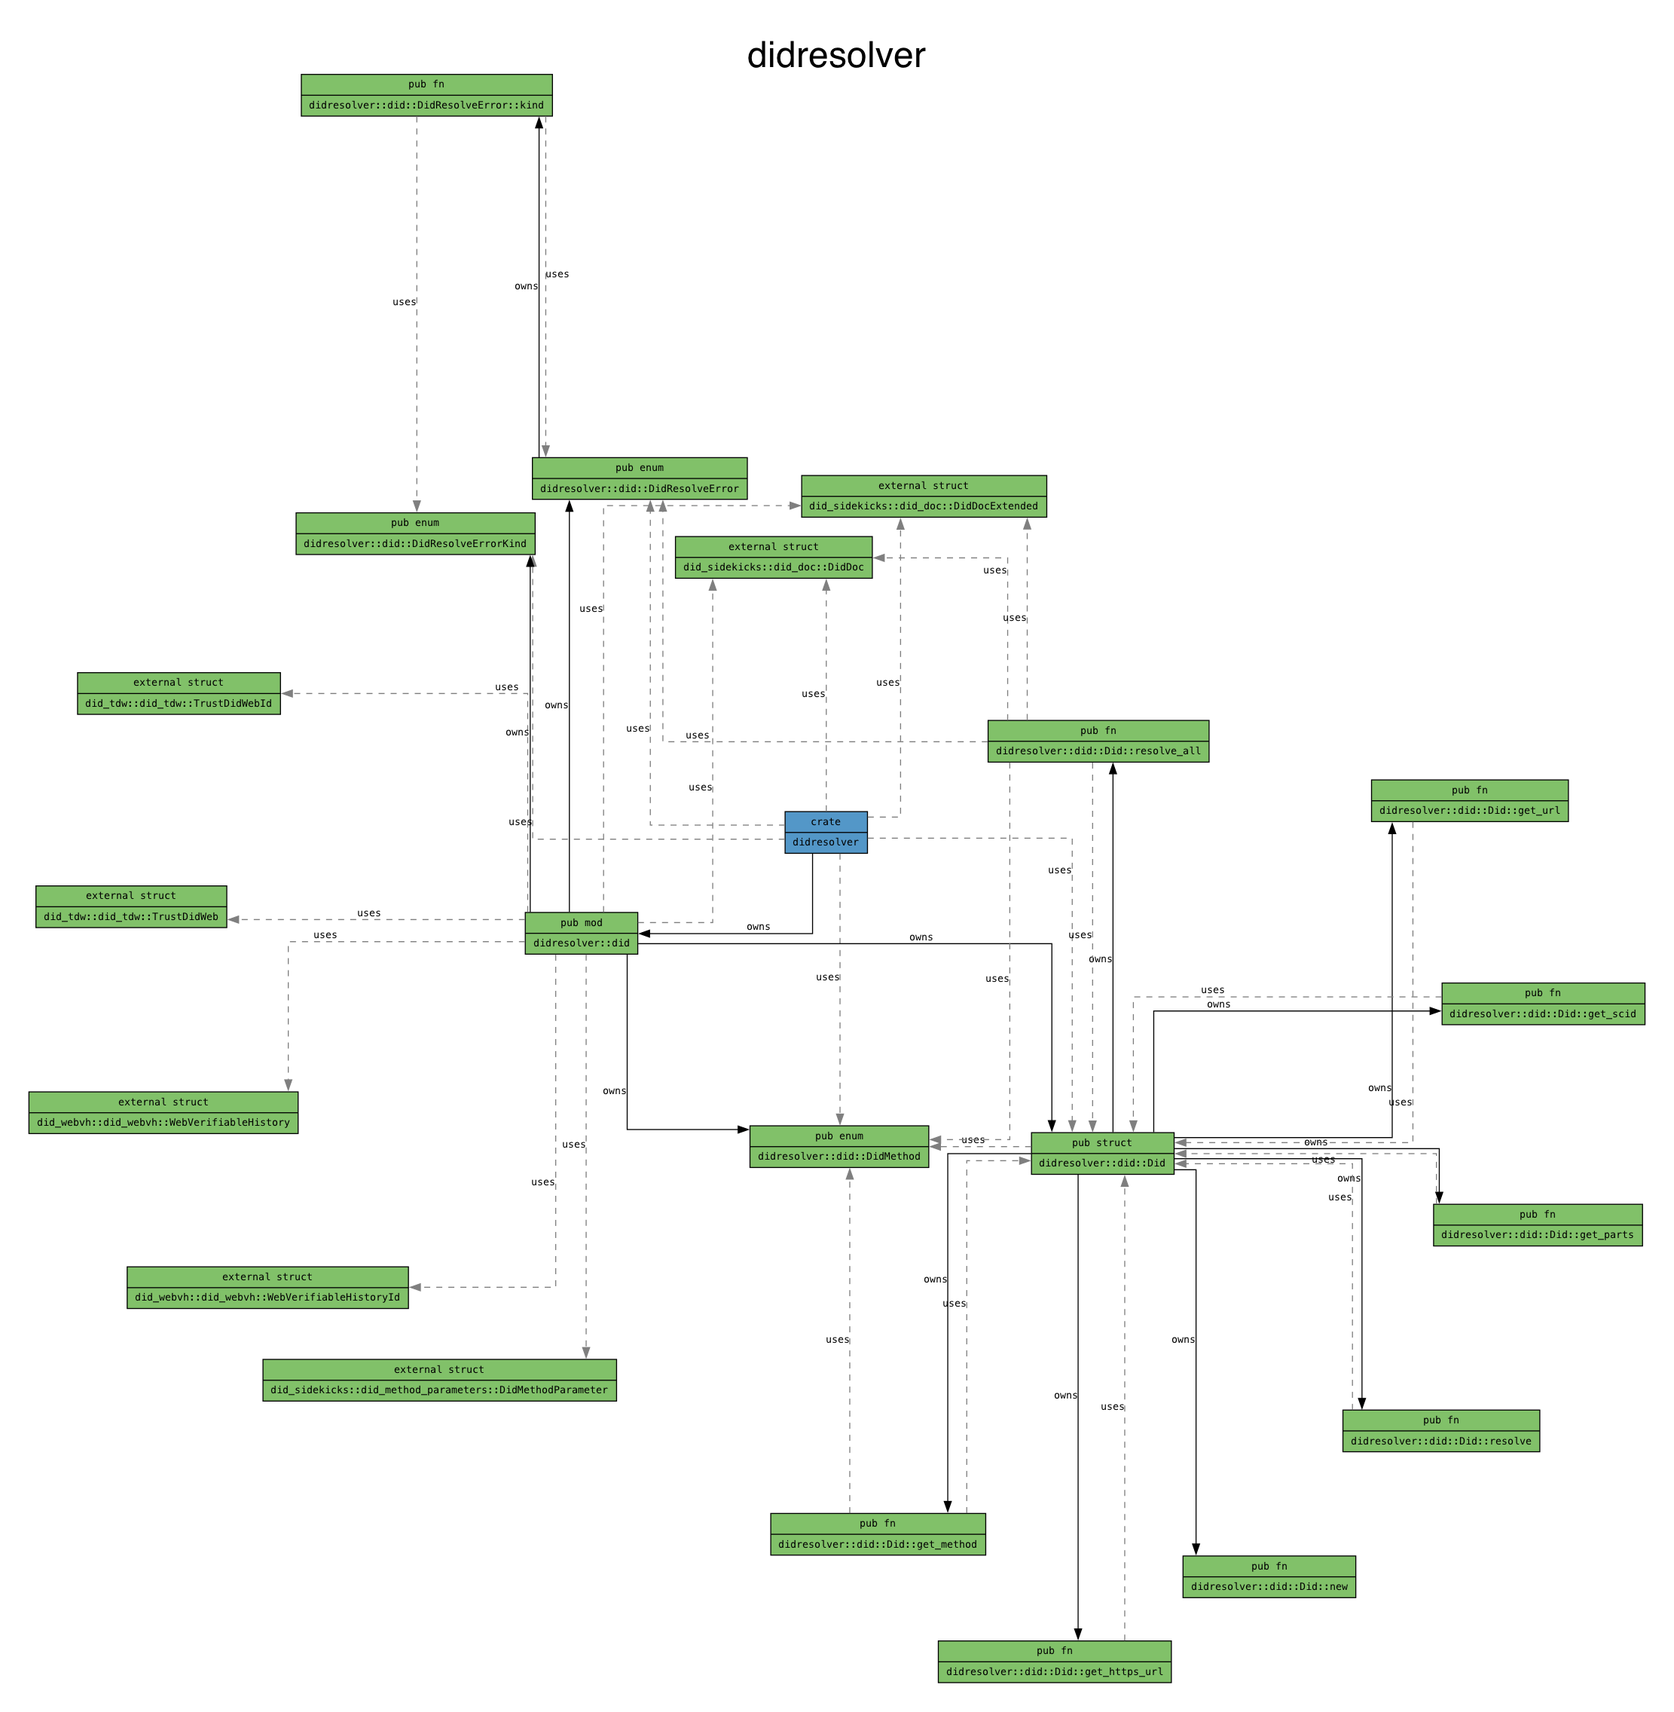
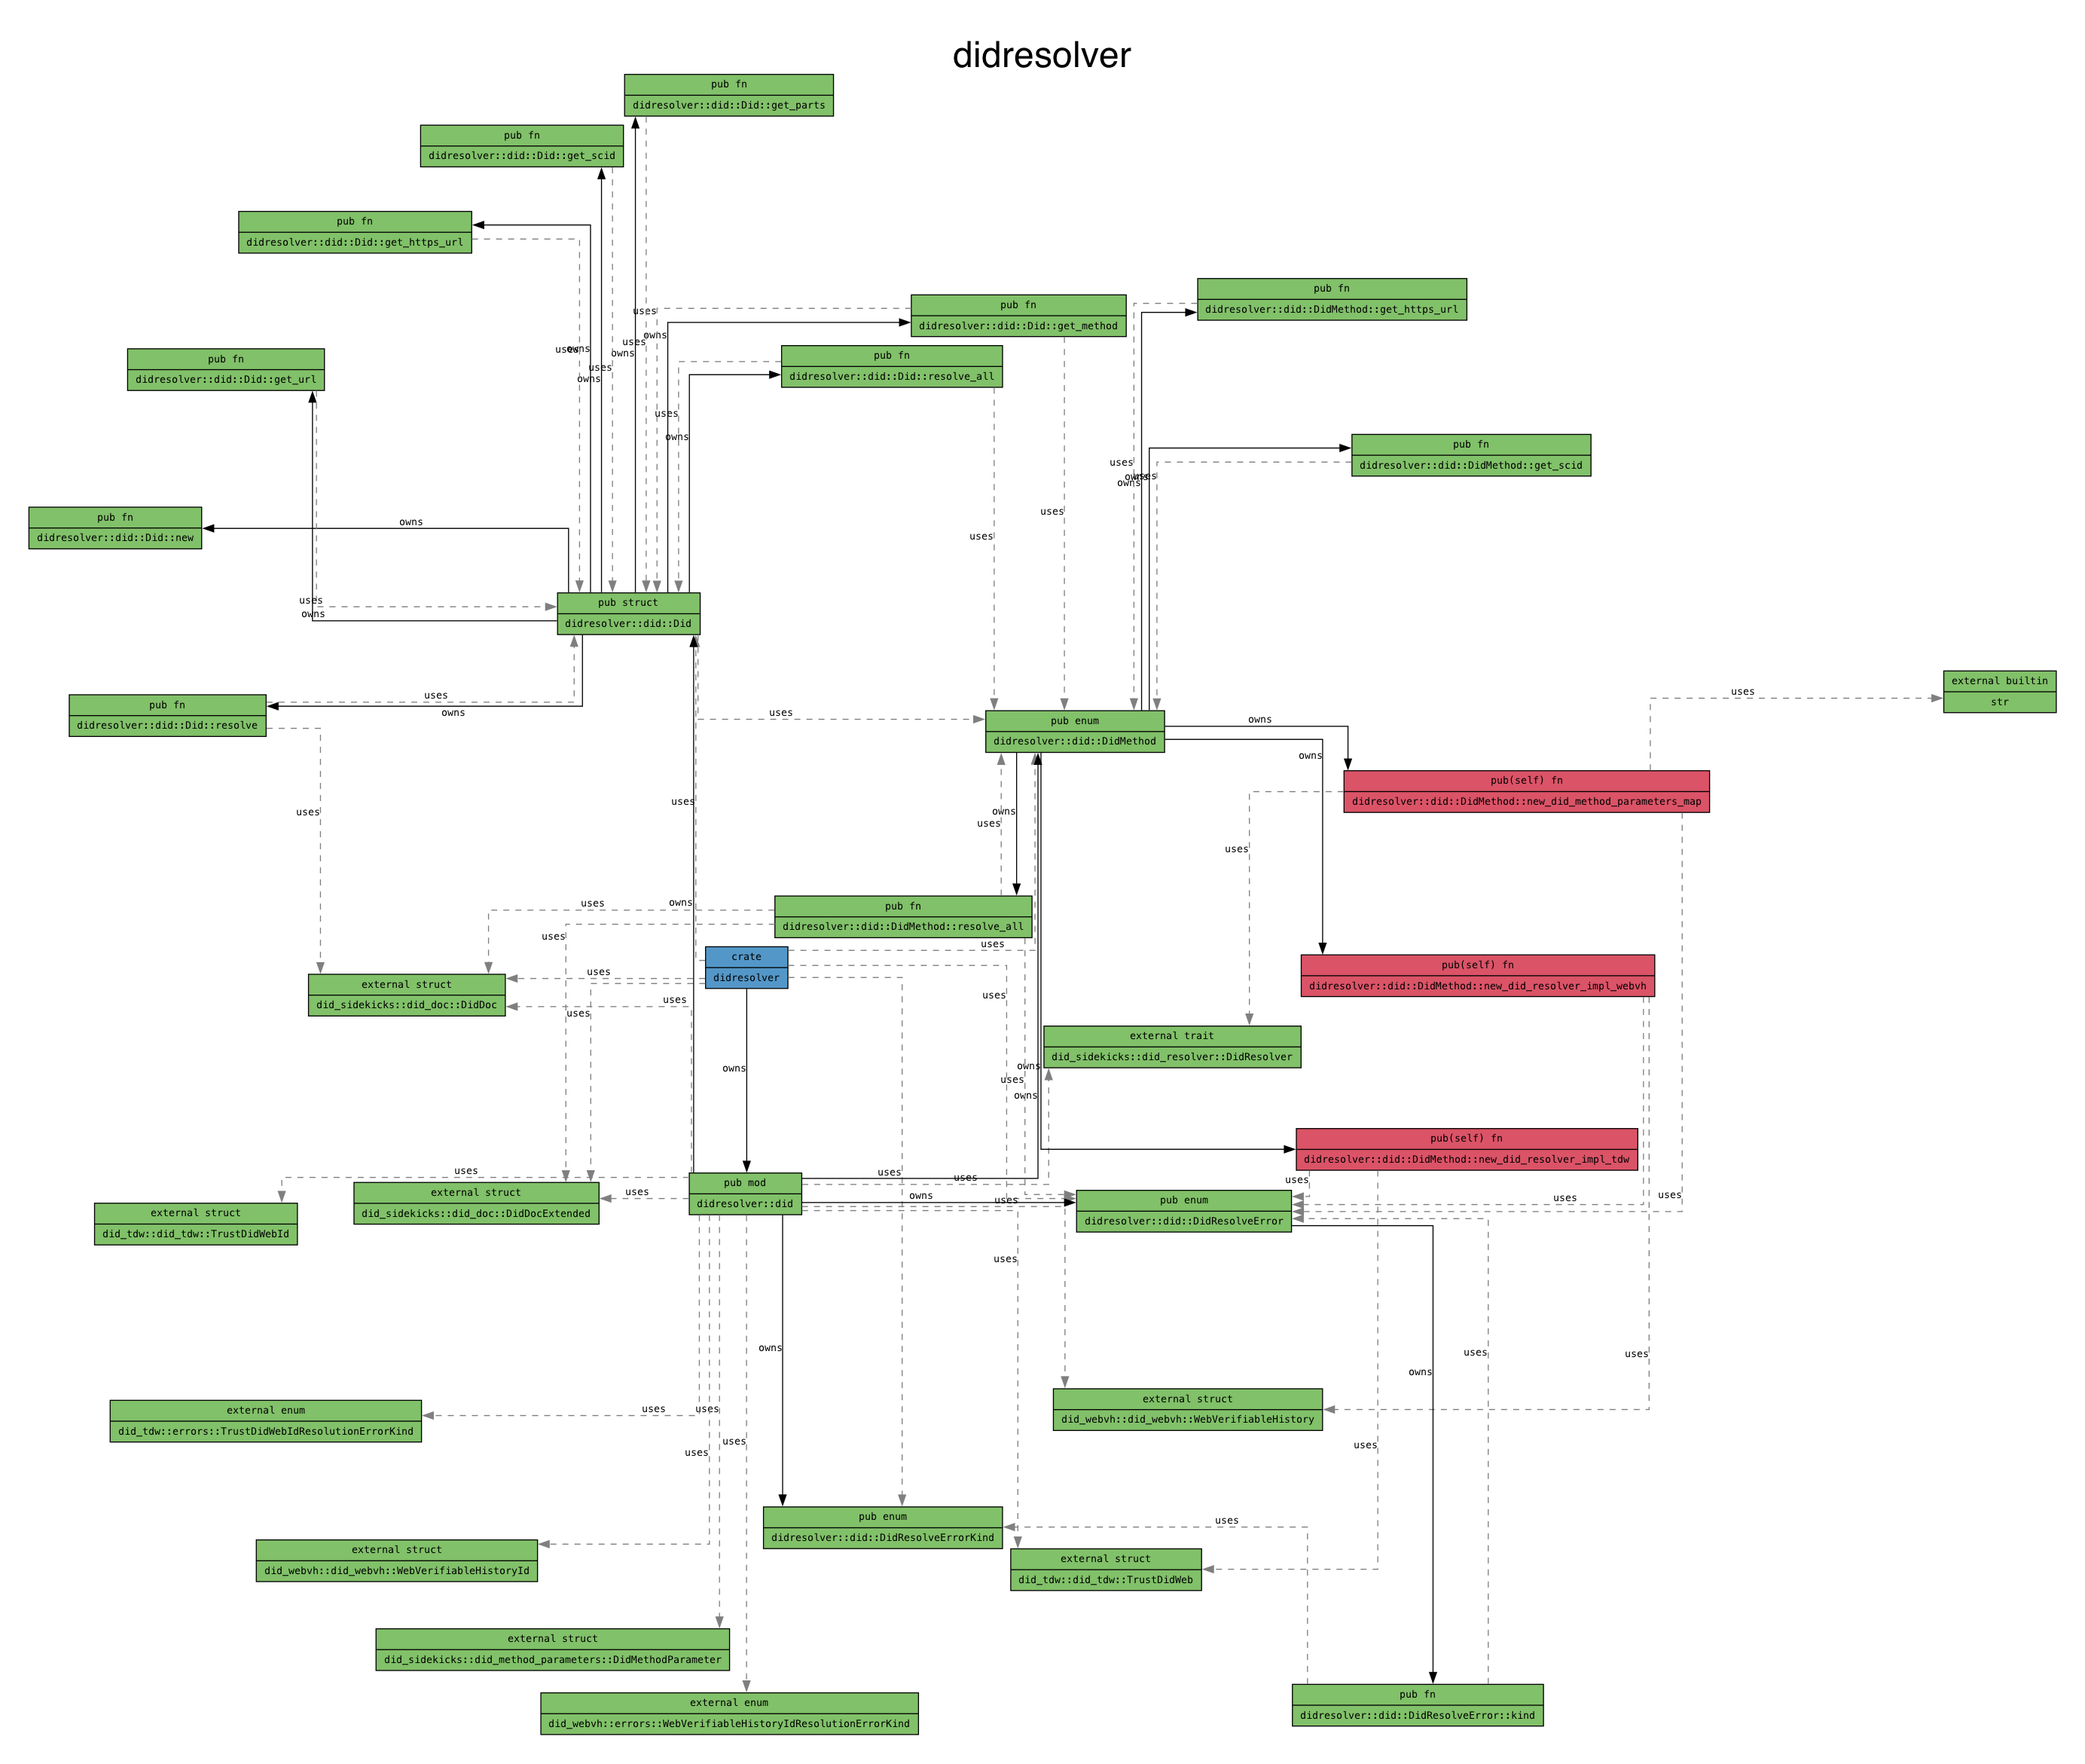
README updated

diff --git a/src/did.rs b/src/did.rs
@@ -59,9 +59,9 @@ pub enum DidResolveErrorKind {
 #[derive(Debug, Clone, PartialEq, Default, EnumDisplay, EnumAsRefStr)]
 pub enum DidMethod {
     #[strum(to_string = "tdw", serialize = "tdw")]
-    TDW { scid: String, url: String },
+    TDW { scid: String, https_url: String },
     #[strum(to_string = "webvh", serialize = "webvh")]
-    WEBVH { scid: String, url: String },
+    WEBVH { scid: String, https_url: String },
     #[default]
     UNKNOWN,
 }
@@ -69,36 +69,48 @@ pub enum DidMethod {
 impl DidMethod {
     pub fn get_scid(&self) -> String {
         match self {
-            TDW { scid, url: _ } => scid.to_string(),
-            WEBVH { scid, url: _ } => scid.to_string(),
+            TDW { scid, https_url: _ } => scid.to_string(),
+            WEBVH { scid, https_url: _ } => scid.to_string(),
             _ => panic!("DID method is unknown"),
         }
     }
 
-    pub fn get_url(&self) -> String {
+    pub fn get_https_url(&self) -> String {
         match self {
-            TDW { scid: _, url } => url.to_string(),
-            WEBVH { scid: _, url } => url.to_string(),
+            TDW {
+                scid: _,
+                https_url: url,
+            } => url.to_string(),
+            WEBVH {
+                scid: _,
+                https_url: url,
+            } => url.to_string(),
             _ => panic!("DID method is unknown"),
         }
     }
 }
 
 impl DidMethod {
-    fn resolve_all(
+    pub fn resolve_all(
         &self,
         did_str: String,
         did_log: String,
     ) -> Result<Arc<DidDocExtended>, DidResolveError> {
         match self {
-            TDW { scid: _, url: _ } => {
+            TDW {
+                scid: _,
+                https_url: _,
+            } => {
                 let did_resolver = Self::new_did_resolver_impl_tdw(did_str, did_log)?;
                 Ok(Arc::new(DidDocExtended::new(
                     did_resolver.get_did_doc_obj(),
                     Self::new_did_method_parameters_map(&did_resolver)?,
                 )))
             }
-            WEBVH { scid: _, url: _ } => {
+            WEBVH {
+                scid: _,
+                https_url: _,
+            } => {
                 let did_resolver = Self::new_did_resolver_impl_webvh(did_str, did_log)?;
                 Ok(Arc::new(DidDocExtended::new(
                     did_resolver.get_did_doc_obj(),
@@ -151,9 +163,9 @@ impl TryFrom<String> for DidMethod {
 
     fn try_from(value: String) -> Result<Self, Self::Error> {
         match TrustDidWebId::try_from(value.clone()) {
-            Ok(buf) => Ok(TDW {
-                scid: buf.get_scid(),
-                url: buf.get_url(),
+            Ok(did_id) => Ok(TDW {
+                scid: did_id.get_scid(),
+                https_url: did_id.get_url(),
             }),
             Err(err) => match err.kind() {
                 TrustDidWebIdResolutionErrorKind::InvalidMethodSpecificId => {
@@ -161,9 +173,9 @@ impl TryFrom<String> for DidMethod {
                 }
                 TrustDidWebIdResolutionErrorKind::MethodNotSupported => {
                     match WebVerifiableHistoryId::try_from(value.clone()) {
-                        Ok(buf) => Ok(WEBVH {
-                            scid: buf.get_scid(),
-                            url: buf.get_url(),
+                        Ok(did_id) => Ok(WEBVH {
+                            scid: did_id.get_scid(),
+                            https_url: did_id.get_url(),
                         }),
                         Err(err) => match err.kind() {
                             WebVerifiableHistoryIdResolutionErrorKind::InvalidMethodSpecificId => {
@@ -310,7 +322,7 @@ impl TryFrom<String> for Did {
             parts: did_split.into_iter().map(|v| v.to_string()).collect(),
             did_method: did_method.clone(),
             scid: did_method.get_scid(),
-            https_url: did_method.get_url(),
+            https_url: did_method.get_https_url(),
         })
     }
 }
@@ -626,37 +638,37 @@ mod tests {
     #[case("did:tdw:QMySCID:domain",
         DidMethod::TDW{
             scid: String::from("QMySCID"),
-            url: String::from("https://domain/.well-known/did.jsonl")
+            https_url: String::from("https://domain/.well-known/did.jsonl")
             }
     )]
     #[case("did:tdw:QMySCID:domain:path",
         DidMethod::TDW{
             scid: String::from("QMySCID"), 
-            url: String::from("https://domain/path/did.jsonl")
+            https_url: String::from("https://domain/path/did.jsonl")
             }
     )]
     #[case("did:tdw:Q24hsDDvpZHmUyNwXWgy36jhB6SFMLT2Aq7HWmZSk6XyZaM7qJNPNYthtRwtz84GHX3Bui3ZSVCcrG8KvGracfbhC:127.0.0.1%3A52788:123456789",
         DidMethod::TDW{
[1 lines of base64/hex data omitted]
-            url: String::from("https://127.0.0.1:52788/123456789/did.jsonl")
+            https_url: String::from("https://127.0.0.1:52788/123456789/did.jsonl")
             }
     )]
     #[case("did:webvh:QMySCID:domain",
         DidMethod::WEBVH{
             scid: String::from("QMySCID"), 
-            url: String::from("https://domain/.well-known/did.jsonl")
+            https_url: String::from("https://domain/.well-known/did.jsonl")
             }
     )]
     #[case("did:webvh:QMySCID:domain:path",
         DidMethod::WEBVH{
             scid: String::from("QMySCID"), 
-            url: String::from( "https://domain/path/did.jsonl")
+            https_url: String::from( "https://domain/path/did.jsonl")
             }
     )]
     #[case("did:webvh:QmSPEpPcSwb3fegq8YE8zotcPEgzHrSFyTJJDAzPo2CYBp:identifier-reg.trust-infra.swiyu-int.admin.ch:api:v1:did:18fa7c77-9dd1-4e20-a147-fb1bec146085",
         DidMethod::WEBVH{
             scid: String::from("QmSPEpPcSwb3fegq8YE8zotcPEgzHrSFyTJJDAzPo2CYBp"), 
-            url: String::from( "https://identifier-reg.trust-infra.swiyu-int.admin.ch/api/v1/did/18fa7c77-9dd1-4e20-a147-fb1bec146085/did.jsonl")
+            https_url: String::from( "https://identifier-reg.trust-infra.swiyu-int.admin.ch/api/v1/did/18fa7c77-9dd1-4e20-a147-fb1bec146085/did.jsonl")
             }
     )]
     fn test_did_ok(#[case] did: String, #[case] expected_method: DidMethod) {

diff --git a/README.md b/README.md
@@ -109,6 +109,12 @@ crate didresolver
     │   ├── fn resolve: pub
     │   └── fn resolve_all: pub
     ├── enum DidMethod: pub
+    │   ├── fn get_https_url: pub
+    │   ├── fn get_scid: pub
+    │   ├── fn new_did_method_parameters_map: pub(self)
+    │   ├── fn new_did_resolver_impl_tdw: pub(self)
+    │   ├── fn new_did_resolver_impl_webvh: pub(self)
+    │   └── fn resolve_all: pub
     ├── enum DidResolveError: pub
     │   └── fn kind: pub
     └── enum DidResolveErrorKind: pub
